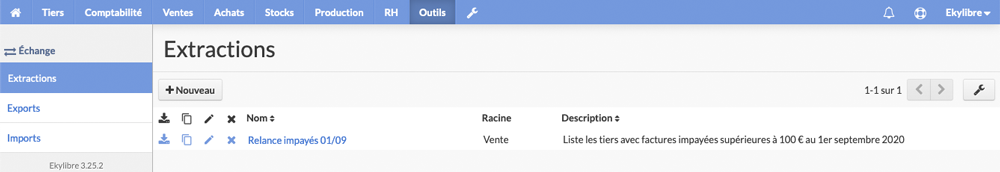
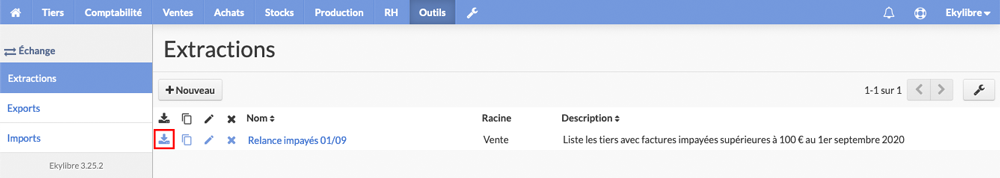
Màj Extractions (Outils)

diff --git a/content/fr/chapitre10.html b/content/fr/chapitre10.html
@@ -1986,10 +1986,11 @@
       <h6>Guide de prise en main • Outils • Extractions</h6>
       <a class="slice-process" id="extractions"></a>
       <h2 class="texte aerateur">d - Extractions de données</h2>
-      <p class="texte"><strong>Eky</strong>agri permet de réaliser l'extraction de données sous la forme de feuilles de calcul &#40;tableaux&#41; au format CSV.</p>
-      <p class="texte">Grâce à des recherches croisées et à des filtres avancés entre les différentes <span class="tooltip">tables<span class="tooltiptext tooltip-top">Voir glossaire</span></span> de l'application, vous pouvez facilement récupérer vos données pour les visualiser ou les exploiter dans un tableur comme par exemple <a href="https://www.openoffice.org/fr/" target="_blank">Apache OpenOffice</a> ou <a href="https://fr.libreoffice.org/" target="_blank">LibreOffice</a>.</p>
-      <p class="texte">Dans l'exemple suivant, sur la base des factures supérieures à 100 euros qui auraient dû être payées à une date donnée, on souhaite obtenir le nom et l'adresse email des tiers afin de réaliser une campagne de relance avec une solution d'emailing tierce.</p>
-      <p align="center" class="texte aerateur procedure">1 – Procédure pour extraire un tableau de tiers</p>
+      <p class="texte"><strong>Eky</strong>agri permet de réaliser l'extraction de données sous la forme de feuilles de calcul &#40;tableaux&#41; au format <span class="tooltip">CSV<span class="tooltiptext tooltip-top">Voir glossaire</span></span>.</p>
+      <p class="texte">Grâce à des recherches croisées entre les différentes <span class="tooltip">tables<span class="tooltiptext tooltip-top">Voir glossaire</span></span> de l'application et à des filtres avancés, vous pouvez contruire des processus afin d'obtenir automatiquement des informations ciblées. Ces données pourront ensuite être visualisées dans un tableur comme par exemple <a href="https://www.openoffice.org/fr/" target="_blank">Apache OpenOffice</a> ou <a href="https://fr.libreoffice.org/" target="_blank">LibreOffice</a> et/ou exploitées dans un autre logiciel.</p>
+	  <p align="center" class="aerateur-haut"><img src="../images/chapitre10/schema-tables.png" alt="Schéma tables" width="500" /></p>
+      <p class="texte aerateur-haut">Dans l'exemple suivant, sur la base des factures supérieures à 100 euros qui auraient dû être payées à une date donnée, on souhaite obtenir le nom, l'adresse email des tiers, le montant et le numéro des factures en souffrance, afin de réaliser une campagne de relance avec une solution d'emailing tierce.</p>
+      <p align="center" class="texte aerateur procedure">1 – Procédure pour extraire une liste de factures impayées</p>
       <div id="cont8" class="niveau">
          <div id="gauge8" class="jauge"></div>
       </div>
@@ -2113,7 +2114,7 @@
          <p class="max-img-process">
             <img src="../images/chapitre10/extractions10.png" class="contour-img" alt="Récupération nom client" data-action="zoom" />
          </p>
-         <p>Puis, dans la liste déroulante "Client", sélectionnez "Nom complet" et cliquez sur le bouton "Ajouter" pour récupérer le nom du client dans l'extraction.</p>
+         <p>Puis, dans cette nouvelle liste déroulante "Client", sélectionnez "Nom complet" et cliquez sur le bouton "Ajouter" pour récupérer le nom du client dans l'extraction.</p>
 		 <p class="max-img-process">
             <img src="../images/chapitre10/extractions11.png" class="contour-img" alt="Récupération nom client" data-action="zoom" />
          </p>
@@ -2128,7 +2129,7 @@
       </div>
       <div class="process-txt">
          <span class="titre-advice">Récupérez les adresses email</span>
-         <p>Dans la liste déroulante "Client", sélectionnez "Courriels &#40;e-mails&#41;" dans la partie "Tables liées" et cliquez sur le bouton "Ajouter".</p>
+         <p>Dans la même liste déroulante "Client", sélectionnez "Courriels &#40;e-mails&#41;" dans la partie "Tables liées" et cliquez sur le bouton "Ajouter".</p>
          <p class="max-img-process">
             <img src="../images/chapitre10/extractions13.png" class="contour-img" alt="Récupération email client" data-action="zoom" />
          </p>
@@ -2164,11 +2165,12 @@
       </div>
       <div class="process-txt">
          <span class="titre-advice">Lancez l'extraction</span>
-         <p>Cliquez sur le lien "Extractions" dans la barre latérale du module, puis cliquez sur le symbole<img src="../images/chapitre10/download.svg" alt="Télécharger" height="20" class="align-icone icone-marge-gauche icone-marge-droite">à gauche du nom du processus pour lancer la création du fichier CSV avec les informations attendues. En fonction de la quantité de données à traiter, patientez quelques instants avant l'obtention du fichier.</p>
+         <p>Cliquez sur le lien "Extractions" dans la barre latérale du module, puis cliquez sur le symbole<img src="../images/chapitre10/download.svg" alt="Télécharger" height="20" class="align-icone icone-marge-gauche icone-marge-droite">à gauche du nom du processus pour lancer la création du fichier <span class="tooltip">CSV<span class="tooltiptext tooltip-top">Voir glossaire</span></span> avec les informations attendues. En fonction de la quantité de données à traiter, patientez quelques instants avant l'obtention du fichier.</p>
          <p class="max-img-process">
             <img src="../images/chapitre10/extractions18.png" class="contour-img" alt="Récupération nom client" data-action="zoom" />
          </p>
-         <p>Cliquez sur le symbole<img src="../images/chapitre10/copy.svg" alt="Copier" height="20" class="align-icone icone-marge-gauche icone-marge-droite">pour dupliquer le processus d'extraction ou sur le crayon<img src="../images/chapitre10/crayon.svg" alt="Modifier" height="20" class="align-icone icone-marge-gauche icone-marge-droite">pour le modifier.</p>
+         <p>Cliquez sur le symbole<img src="../images/chapitre10/copy.svg" alt="Copier" height="20" class="align-icone icone-marge-gauche icone-marge-droite">pour dupliquer un processus d'extraction ou sur le crayon<img src="../images/chapitre10/crayon.svg" alt="Modifier" height="20" class="align-icone icone-marge-gauche icone-marge-droite">&#40;ou son nom&#41; pour le modifier.</p>
+		 <p>Cela permet notamment de corriger facilement un filtre &#40;comme par exemple effectuer un changement de date&#41; pour adapter le processus existant à un nouveau besoin.</p>
          <div class="divTableListe">
             <div class="divTableBody">
                <div class="divTableRow">

diff --git a/content/fr/notes-version.html b/content/fr/notes-version.html
@@ -75,8 +75,8 @@
             {dates: [new Date(2020, 10, 10), new Date(2020, 10, 17)], title: "Version 3.22", attrs: {fill: "#fa5554", stroke: "#fa5554"}},
             {dates: [new Date(2020, 10, 18), new Date(2020, 11, 2)], title: "Version 3.23", attrs: {fill: "#5b57e5", stroke: "#5b57e5"}},
             {dates: [new Date(2020, 11, 3), new Date(2020, 11, 16)], title: "Version 3.24", attrs: {fill: "#fea40b", stroke: "#fea40b"}},
-            {dates: [new Date(2020, 11, 17), new Date(2020, 12, 18)], title: "Version 3.25", attrs: {fill: "#fa5554", stroke: "#fa5554"}},
-         {dates: [new Date(2020, 12, 19), new Date(annee, mois, jour)], title: "Version 3.26", attrs: {fill: "#5b57e5", stroke: "#5b57e5"}}
+            {dates: [new Date(2020, 11, 17), new Date(2020, 12, 19)], title: "Version 3.25", attrs: {fill: "#fa5554", stroke: "#fa5554"}},
+         {dates: [new Date(2020, 12, 20), new Date(annee, mois, jour)], title: "Version 3.26", attrs: {fill: "#5b57e5", stroke: "#5b57e5"}}
          ];
          
          var sections = [
@@ -139,7 +139,7 @@
                      <div class="panel">
                         <div class="heading">
                            <div class="version">
-                              <h2>Note de version 3.26 du 19/01/2021</h2>
+                              <h2>Note de version 3.26 du 20/01/2021</h2>
                            </div>
                            <i class="fa fa-chevron-down"></i>
                         </div>
@@ -281,7 +281,7 @@
                                        <ul>
                                           <li>Le passage d'une intervention de l'état "Planifiée" vers l'état "Terminée" est désormais autorisé même si les temps de travaux détaillés n'ont pas été renseignés&nbsp;;</li>
                                           <li>Les quantités d'intrants utilisés et d'extrants récoltés sont maintenant correctement reportées dans l'application en ligne <strong>Eky</strong>agri&nbsp;;</li>
-										  <li>Encore non adapté à l'application mobile, le bouton permettant d'enregistrer des interventions classées dans la section "Production animale" a été supprimé.</li>
+										  <li>Encore non adapté à l'application mobile, le bouton permettant d'enregistrer des interventions classées dans la section "Production animale" a été retiré.</li>
                                        </ul>
                                     </div>
                                  </div>
@@ -3225,7 +3225,7 @@
       <!-- Section pour la génération du PDF -->
       <div class="saut-page"></div>
       <div class="heading-print marge aerateur-haut">
-         <h2>Note de version 3.26 du 19/01/2021</h2>
+         <h2>Note de version 3.26 du 20/01/2021</h2>
       </div>
       <div class="content-print marge">
          <div class="divTableNoteVersion">
@@ -3372,7 +3372,7 @@
                      <ul>
                         <li>Le passage d'une intervention de l'état "Planifiée" vers l'état "Terminée" est désormais autorisé même si les temps de travaux détaillés n'ont pas été renseignés&nbsp;;</li>
                         <li>Les quantités d'intrants utilisés et d'extrants récoltés sont maintenant correctement reportées dans l'application en ligne <strong>Eky</strong>agri&nbsp;;</li>
-						<li>Encore non adapté à l'application mobile, le bouton permettant d'enregistrer des interventions classées dans la section "Production animale" a été supprimé.</li>
+						<li>Encore non adapté à l'application mobile, le bouton permettant d'enregistrer des interventions classées dans la section "Production animale" a été retiré.</li>
                      </ul>
                   </div>
                </div>
